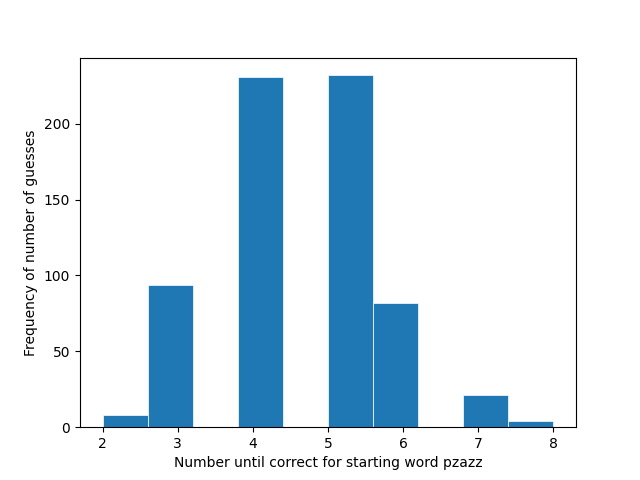
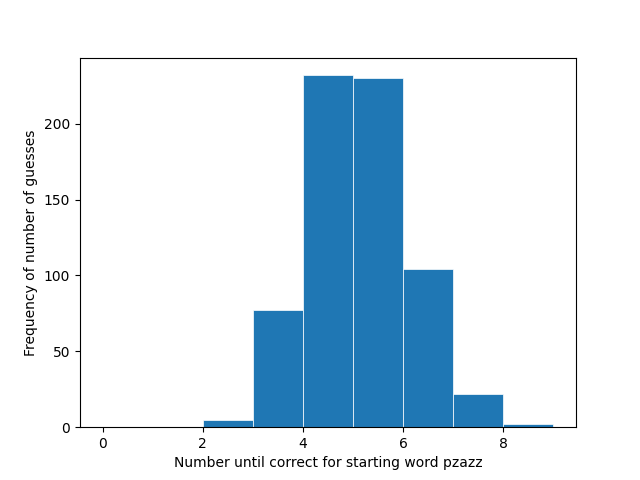
histograms update

Changed region(s): [[0.375, 0.1562, 0.875, 0.9375], [0.1562, 0.5938, 0.375, 0.9375], [0.375, 0.9062, 0.4062, 0.9375]]

diff --git a/wordle_test.py b/wordle_test.py
@@ -57,7 +57,7 @@ def plot_guess_log(seed, guess_log):
     fig, ax = plt.subplots()
     ax.set_xlabel('Number until correct for starting word ' + seed)
     ax.set_ylabel('Frequency of number of guesses')
-    ax.hist(guess_log, linewidth=0.5, edgecolor="white")
+    ax.hist(guess_log, bins=range(10), linewidth=0.5, edgecolor="white")
     plt.savefig('histograms/'+ seed + '.png')
 
 def plot_start_words(start_words, avg_guesses):
